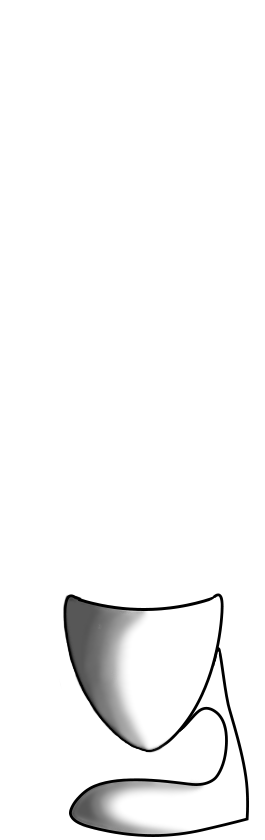
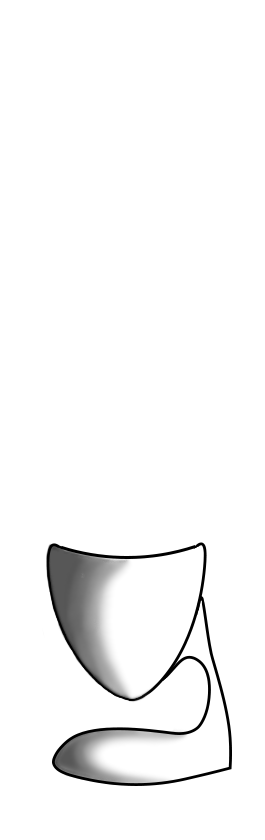
rdeftcjhlk

Changed region(s): [[0.1509, 0.65, 0.966, 1.0]]

diff --git a/script.js b/script.js
@@ -1,14 +1,17 @@
 "use strict";
 
 const features = {
-    furby: false,
     spongebob: false,
-    sirhiss: false
+    float_foot: false,
+    space_foot: false,
+    standard_foot: true
 }
 
-const spaceFootPath = "M57,564a378.7,378.7,0,0,0-16,37c-4.4,12.1-8.4,25-12,39a414.8,414.8,0,0,0-10,53,405.5,405.5,0,0,0-3,54h0c.7,15.7,1.3,31.3,2,47H28a218.4,218.4,0,0,1-2-28c-.1-16.4,1.3-30.7,4-43a179.5,179.5,0,0,1,48-87c1.7,6.3,3.3,12.7,5,19,5.4,20.7,10.7,41.3,16,62l67,1c5.7-27,11.3-54,17-81a372.1,372.1,0,0,1,33,67,373,373,0,0,1,16,56c1.7,11,3.3,22,5,33h9a631.1,631.1,0,0,0-1-66c-2.4-35.2-7.3-68-14-93a400,400,0,0,0-27-72,18.8,18.8,0,0,0,3-7c.9-4.8.7-9-2-11a7.3,7.3,0,0,0-6-1c-2.3.5-3.5,1.9-5,3s-5,2.2-9,3c-18.7,3.7-31.9,7.5-51,8-25.5.7-46.7-2.9-62-8-4.4-1.5-8.7-3.1-13-5a8.1,8.1,0,0,0-6,4c-.9,1.8-.6,3.7,0,6A59.6,59.6,0,0,0,57,564Z";
-const floatFootPath = "M70,595c-2.9,1.2-4.3,4.9-5,9-2.3,12.7.6,29,1,31,1.9,8.4,2.7,15.7,5,24a184.4,184.4,0,0,0,7,21c8.3,20.3,19.8,37.4,34,51s31,20.4,37,20,18.8-8.1,32-21c3.3-3.2,10.3-10.1,11-11,2.4-3.3,4.9-7.4,10-9s10.2.3,13,2,6.8,6.7,9,15,2.2,18.6,0,32c-.9,5.1-2,10.1-6,15a26.8,26.8,0,0,1-15,9,32.2,32.2,0,0,1-11,0c-4.6-.9-16.8-1.8-26-3-5.9-.8-18.5-1-29-1-22.9,0-36.9,2-49,10-4.9,3.2-20.4,14.6-18,25,1.6,6.8,10.4,10.6,23,14,19.8,5.4,42.9,8,52,8a295.4,295.4,0,0,0,44-3c9.9-1.5,21.5-4.3,33-7l26-6a224.6,224.6,0,0,0-1-41c-1.5-12.7-5.9-31.2-11-49-3-10.4-5.8-19.3-8-30-1.7-8.1-3-16.5-4-25s-3-16.3-3-20a14,14,0,0,0-1-5,12.1,12.1,0,0,0-2-3,245.3,245.3,0,0,0,5-27c.6-5-.1-8.9,0-14,.1-3.4.2-9.4-3-11a6.5,6.5,0,0,0-4,0,13.5,13.5,0,0,0-5,3c-1.3,1.1-6.4,3-12,4a374,374,0,0,1-56,6c-22.1.6-38.7.7-51-5-4.3-2-8.1-2.8-12-5S73.2,593.7,70,595Z";
-const standardFootPath = "M60,547a12.7,12.7,0,0,0-5,5c-2.2,4-1.3,8.3-1,10s1.4,17.4,5,27c4.7,12.6,9.6,23.9,15,35,6.4,13.2,11.8,24.8,19,34a127.2,127.2,0,0,0,22,22,29.3,29.3,0,0,1,6,15c.4,5.1-.9,11.7-6,20a77.5,77.5,0,0,1-27,26,125.8,125.8,0,0,1-46,15c-4,.4-15,1.6-24,9-7,5.7-10.8,12.2-11,19a22.5,22.5,0,0,0,4,13,25.8,25.8,0,0,0,6,6c4.6,3.3,10.6,7.7,13,9a117,117,0,0,0,42,13,273.8,273.8,0,0,0,36,2c11.1-.1,22.6-.1,34,0a442.1,442.1,0,0,0,46-3c10.8-1.3,21.3-2.9,32-5,16-1.7,28.1-11,32-23,1.6-4.9,3.1-14.3-2-23a27.1,27.1,0,0,0-15-12,181.6,181.6,0,0,1-51-16c-16.7-8.2-30.6-20.7-38-32-5.2-7.9-6.4-14-6-19a26,26,0,0,1,2-8c3.6-8.8,9.7-13.8,14-18a103.2,103.2,0,0,0,11-13c7.9-10.7,11.6-20.1,16-32,7.4-20.1,12-38.7,17-58,.6-2.1.7-5.5,1-8a11.3,11.3,0,0,0-1-7,10.3,10.3,0,0,0-4-4,212.1,212.1,0,0,1-33,9,199.7,199.7,0,0,1-68,1A193.5,193.5,0,0,1,60,547Z";
+const spaceFootPath = '<path class="cls-2" d="M57,564a378.7,378.7,0,0,0-16,37c-4.4,12.1-8.4,25-12,39a414.8,414.8,0,0,0-10,53,405.5,405.5,0,0,0-3,54h0c.7,15.7,1.3,31.3,2,47H28a218.4,218.4,0,0,1-2-28c-.1-16.4,1.3-30.7,4-43a179.5,179.5,0,0,1,48-87c1.7,6.3,3.3,12.7,5,19,5.4,20.7,10.7,41.3,16,62l67,1c5.7-27,11.3-54,17-81a372.1,372.1,0,0,1,33,67,373,373,0,0,1,16,56c1.7,11,3.3,22,5,33h9a631.1,631.1,0,0,0-1-66c-2.4-35.2-7.3-68-14-93a400,400,0,0,0-27-72,18.8,18.8,0,0,0,3-7c.9-4.8.7-9-2-11a7.3,7.3,0,0,0-6-1c-2.3.5-3.5,1.9-5,3s-5,2.2-9,3c-18.7,3.7-31.9,7.5-51,8-25.5.7-46.7-2.9-62-8-4.4-1.5-8.7-3.1-13-5a8.1,8.1,0,0,0-6,4c-.9,1.8-.6,3.7,0,6A59.6,59.6,0,0,0,57,564Z"/>';
+
+const floatFootPath = '<path class="cls-2" d="M53,544a7.5,7.5,0,0,0-3,2,8.3,8.3,0,0,0-2,5c-.7,6.5-1.4,22.9,0,29,1.9,8.8,3.4,21.6,7,33a179.5,179.5,0,0,0,19,41c8,12.8,19.6,27.4,37,39,9.3,6.2,16.5,8.8,24,8s18.4-9.5,31-24c3.8-4.3,7.4-6.5,11-11,2-2.5,4.5-5.9,9-7,6.6-1.6,13.5,3,17,7,5.3,6,5.5,13.3,5,26-.7,17-2.1,26.4-9,33a28.4,28.4,0,0,1-10,6,34.3,34.3,0,0,1-16,1c-3-.5-21-2.6-32-4-7.3-.9-23.8.1-38,1-12.7.8-24.8,2.1-36,11-4.4,3.5-16.8,14.8-14,25,2,7.3,14.6,12.2,38,16,18.7,3,38.5,4.5,50,4a320,320,0,0,0,47-6c14.8-2.9,29.4-6.6,44-11a215.9,215.9,0,0,0-1-35,217.7,217.7,0,0,0-6-32c-7.9-30.4-17.5-65.8-19-83-.5-6-2.4-12-2-15,.1-.8.5-3.5-1-5a4.2,4.2,0,0,0-2-1,171.2,171.2,0,0,1,3-21c1.8-8.6,1.5-19.6,2-24a9.9,9.9,0,0,0-1-6,8.6,8.6,0,0,0-3-3,211.9,211.9,0,0,1-149,1Z"/>';
+
+const standardFootPath = '<path class="cls-2" d="M60,547a12.7,12.7,0,0,0-5,5c-2.2,4-1.3,8.3-1,10s1.4,17.4,5,27c4.7,12.6,9.6,23.9,15,35,6.4,13.2,11.8,24.8,19,34a127.2,127.2,0,0,0,22,22,29.3,29.3,0,0,1,6,15c.4,5.1-.9,11.7-6,20a77.5,77.5,0,0,1-27,26,125.8,125.8,0,0,1-46,15c-4,.4-15,1.6-24,9-7,5.7-10.8,12.2-11,19a22.5,22.5,0,0,0,4,13,25.8,25.8,0,0,0,6,6c4.6,3.3,10.6,7.7,13,9a117,117,0,0,0,42,13,273.8,273.8,0,0,0,36,2c11.1-.1,22.6-.1,34,0a442.1,442.1,0,0,0,46-3c10.8-1.3,21.3-2.9,32-5,16-1.7,28.1-11,32-23,1.6-4.9,3.1-14.3-2-23a27.1,27.1,0,0,0-15-12,181.6,181.6,0,0,1-51-16c-16.7-8.2-30.6-20.7-38-32-5.2-7.9-6.4-14-6-19a26,26,0,0,1,2-8c3.6-8.8,9.7-13.8,14-18a103.2,103.2,0,0,0,11-13c7.9-10.7,11.6-20.1,16-32,7.4-20.1,12-38.7,17-58,.6-2.1.7-5.5,1-8a11.3,11.3,0,0,0-1-7,10.3,10.3,0,0,0-4-4,212.1,212.1,0,0,1-33,9,199.7,199.7,0,0,1-68,1A193.5,193.5,0,0,1,60,547Z"/>';
 
 let colorValue;
 
@@ -68,10 +71,44 @@ window.addEventListener("DOMContentLoaded", function() {
 
             if (feature.includes("foot")) {
                 console.log("fooooot")
-                if (feature == "space_foot") {
-                    console.log("spacefoot");
-                    console.log(document.querySelector("#bottom_path path"))
-                    document.querySelector("#bottom_path path").d = spaceFootPath;
+                if (feature === "space_foot") {
+
+                    features.float_foot = false;
+                    features.standard_foot = false;
+
+                    document.querySelector(`#options [data-feature="float_foot"`).classList.remove("chosen");
+                    document.querySelector("#float_foot").classList.add("hide");
+                    document.querySelector(`#options [data-feature="standard_foot"`).classList.remove("chosen");
+                    document.querySelector("#standard_foot").classList.add("hide");
+
+                    document.querySelector("#bottom_path").innerHTML = spaceFootPath;
+
+                } else if (feature === "float_foot") {
+
+
+                    features.standard_foot = false;
+                    features.space_foot = false;
+
+                    document.querySelector(`#options [data-feature="standard_foot"`).classList.remove("chosen");
+                    document.querySelector("#space_foot").classList.add("hide");
+                    document.querySelector(`#options [data-feature="space_foot"`).classList.remove("chosen");
+                    document.querySelector("#standard_foot").classList.add("hide");
+
+
+                    document.querySelector("#bottom_path").innerHTML = floatFootPath;
+
+                } else {
+
+                    features.space_foot = false;
+                    features.float_foot = false;
+
+                    document.querySelector("#space_foot").classList.add("hide");
+                    document.querySelector(`#options [data-feature="space_foot"`).classList.remove("chosen");
+                    document.querySelector("#float_foot").classList.add("hide");
+                    document.querySelector(`#options [data-feature="float_foot"`).classList.remove("chosen");
+
+                    document.querySelector("#bottom_path").innerHTML = standardFootPath;
+
                 }
             }
 
@@ -117,6 +154,38 @@ window.addEventListener("DOMContentLoaded", function() {
             target.classList.remove("chosen");
             console.log(`Feature ${feature} is turned off!`);
             document.querySelector(`[data-feature="${feature}"`).classList.add("hide");
+
+
+            if (feature.includes("foot")) {
+                console.log("fooooot")
+                if (feature === "space_foot") {
+
+                    features.space_foot = false;
+                    document.querySelector("#standard_foot").classList.remove("hide");
+
+                    document.querySelector("#bottom_path").innerHTML = standardFootPath;
+
+                } else if (feature === "float_foot") {
+
+                    features.float_foot = false;
+                    document.querySelector("#standard_foot").classList.remove("hide");
+
+                    document.querySelector("#bottom_path").innerHTML = standardFootPath;
+
+                } else {
+
+                    features.space_foot = false;
+
+                    document.querySelector("#space_foot").classList.add("hide")
+                    features.float_foot = false;
+
+                    document.querySelector("#float_foot").classList.add("hide")
+
+
+                    document.querySelector("#bottom_path").innerHTML = "";
+
+                }
+            }
 
             theFeature.classList.remove(feature);
 

diff --git a/index.html b/index.html
@@ -37,10 +37,13 @@
                     </g>
                   </svg>
 
-                <img src="images/lavalampe_shadows.png" alt="" id="lava_lamp" class="basic point">
+                <img src="images/lavalampe_udenfod.png" alt="" id="lava_lamp" class="basic point">
+                <img src="images/lavalampe_standardfod.png" alt="" id="standard_foot" class="point" data-feature="standard_foot">
                 <img src="images/spongebob.png" alt="" class="hide point" data-feature="spongebob">
-                <img src="images/lavalampe_floatfod.png" alt="" class="hide point" data-feature="float_foot">
-                <img src="images/lavalampe_spacefod.png" alt="" class="hide point" data-feature="space_foot">
+                <img src="images/lavalampe_floatfod.png" id="float_foot" alt="" class="hide point" data-feature="float_foot">
+                <img src="images/lavalampe_spacefod.png" id="space_foot" alt="" class="hide point" data-feature="space_foot">
+
+
             </div>
             <div id="options">
                 <div id="color_picker">
